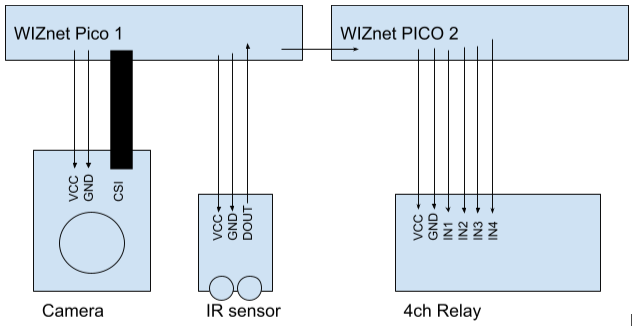
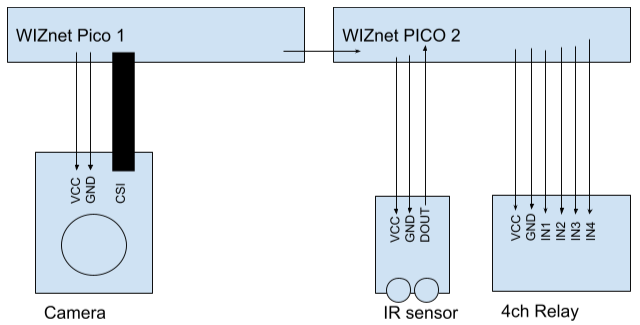
documentation

diff --git a/readme.md b/readme.md
@@ -53,17 +53,22 @@ Initially we started with making our work desk smart. For this we placed an IR s
 <br/>
 <h2>Explaination</h2>
 <h3>Circuit</h3>
-<p>The VCC & GND pins of Camera, IR sensor and 4ch Relay are connected to VCC and GND respectively. The IR sensor’s DOUT pin is connected to  GP1  of the WIZnet Pico 1 which wakes up the camera. If the camera detects any human face, it will turn HIGH the GP1 of WIZnet Pico 2 which will make the 4 INPUT pins of 4ch Relay connected to GP2,GP3,GP4 and GP5 of the WIZnet Pico 2 HIGH.<br>
-So when any human comes before the device it will turn on/off the devices connected to the Relay as configured. 
+<p>
+The VCC & GND pins of Camera, IR sensor and 4ch Relay are connected to VCC and GND respectively. The IR sensor’s DOUT pin is connected to  GP1  of the WIZnet Pico 2 and the output from WIZnet Pico 1 is connected to GP0 of the WIZnet Pico 2. <br>
+
+If the camera detects any human face, it will turn the GP0 of WIZnet Pico 2 to HIGH and when the IR sensor detects something it will turn the GP1 of WIZnet Pico 2 to LOW.<br>
+
+When the GP0 and GP1 of WIZnet Pico 2 are HIGH and LOW respectively, the Relays connected to GP2, GP3, GP4 and GP5 are turned HIGH ie when any human is detected by the camera and the he is sitting on his desk, the microcontroller will turn on the relays.
+
 </p>
 <br>
 <h3>Code</h3>
 <p>
-First we initialized the variables R1, R2, R3, R4 to GPIO PINS 2,3,4,5 respectively. These pins aue OUTPUT pins and used to control the Relay. One more variable REL_IN is initialized as an INPUT pin on GPIO 1.
+First we initialized the variables R1, R2, R3, R4 to GPIO PINS 2,3,4,5 respectively. These pins aue OUTPUT pins and used to control the Relay. Two more variables CAM_IN and IR_IN are initialized to GPIO PINS 0 and 1 respectively.
 <br>
-Inside the setup function sets the above mentioned pins to their respective modes. Sets the BUILTIN LED as OUTPUT and begins serial logging.
+The setup function sets the GPIO pins 2,3,4,5 and LED_BUILTIN to OUTPUT to control the relays and the GPIO pins 0, 1 are set to INPUT.
 <br>
-The loop function runs recursively and prints the value of REL_IN i.e. input for the relay. If the REL_IN is logic 1 then it will make all the relays as high ie R1, R2, R3, R4 as HIGH along the BUILTIN_LED else make these as LOW.
+The loop function runs recursively and checks the INPUT from GPIO pins 0 and 1. If the GPIO 0 is HIGH and GPIO 1 is LOW, the GPIO pins 2,3,4,5 are turned HIGH to activate the relays else they are turned LOW.
 </p>
 <br>
 <h2>Images</h2>
